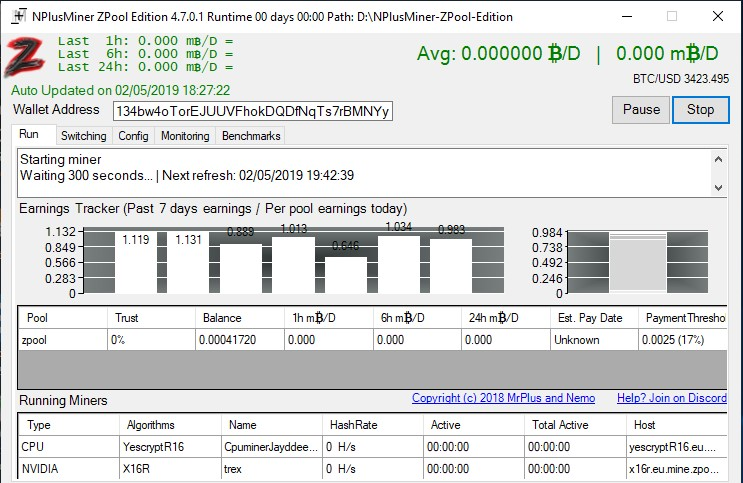
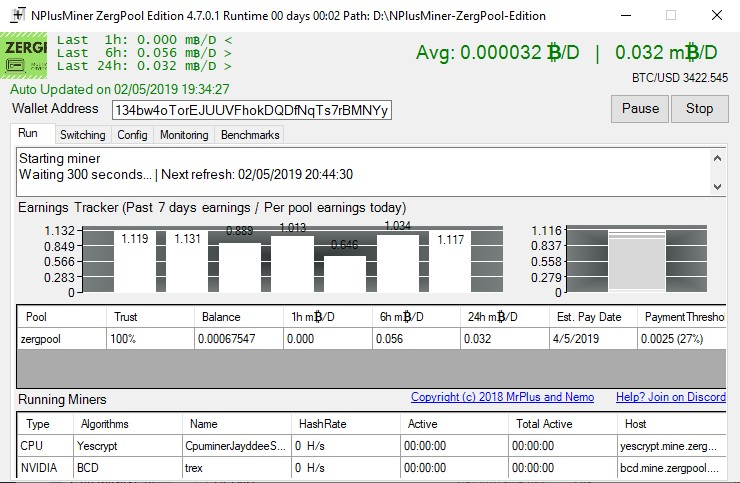
screenshot

Changed region(s): [[0.0, 0.0, 1.0, 1.0], [0.9014, 0.0, 0.9324, 0.0311], [0.0, 0.528, 0.0311, 0.559]]

diff --git a/README.md b/README.md
@@ -20,7 +20,7 @@ BitcoinTalk : https://bitcointalk.org/index.php?topic=2965976.0
 *****
 
 For details on NPlusMiner please refer to https://github.com/MrPlusGH/NPlusMiner/blob/master/README.md
-![alt text](https://raw.githubusercontent.com/MrPlusGH/NPlusMiner-ZPool-Edition/master/Utils/screenshot.jpg)
+![alt text](https://raw.githubusercontent.com/MrPlusGH/NPlusMiner-ZergPool-Edition/master/Utils/screenshot.jpg)
 
 *****
 
